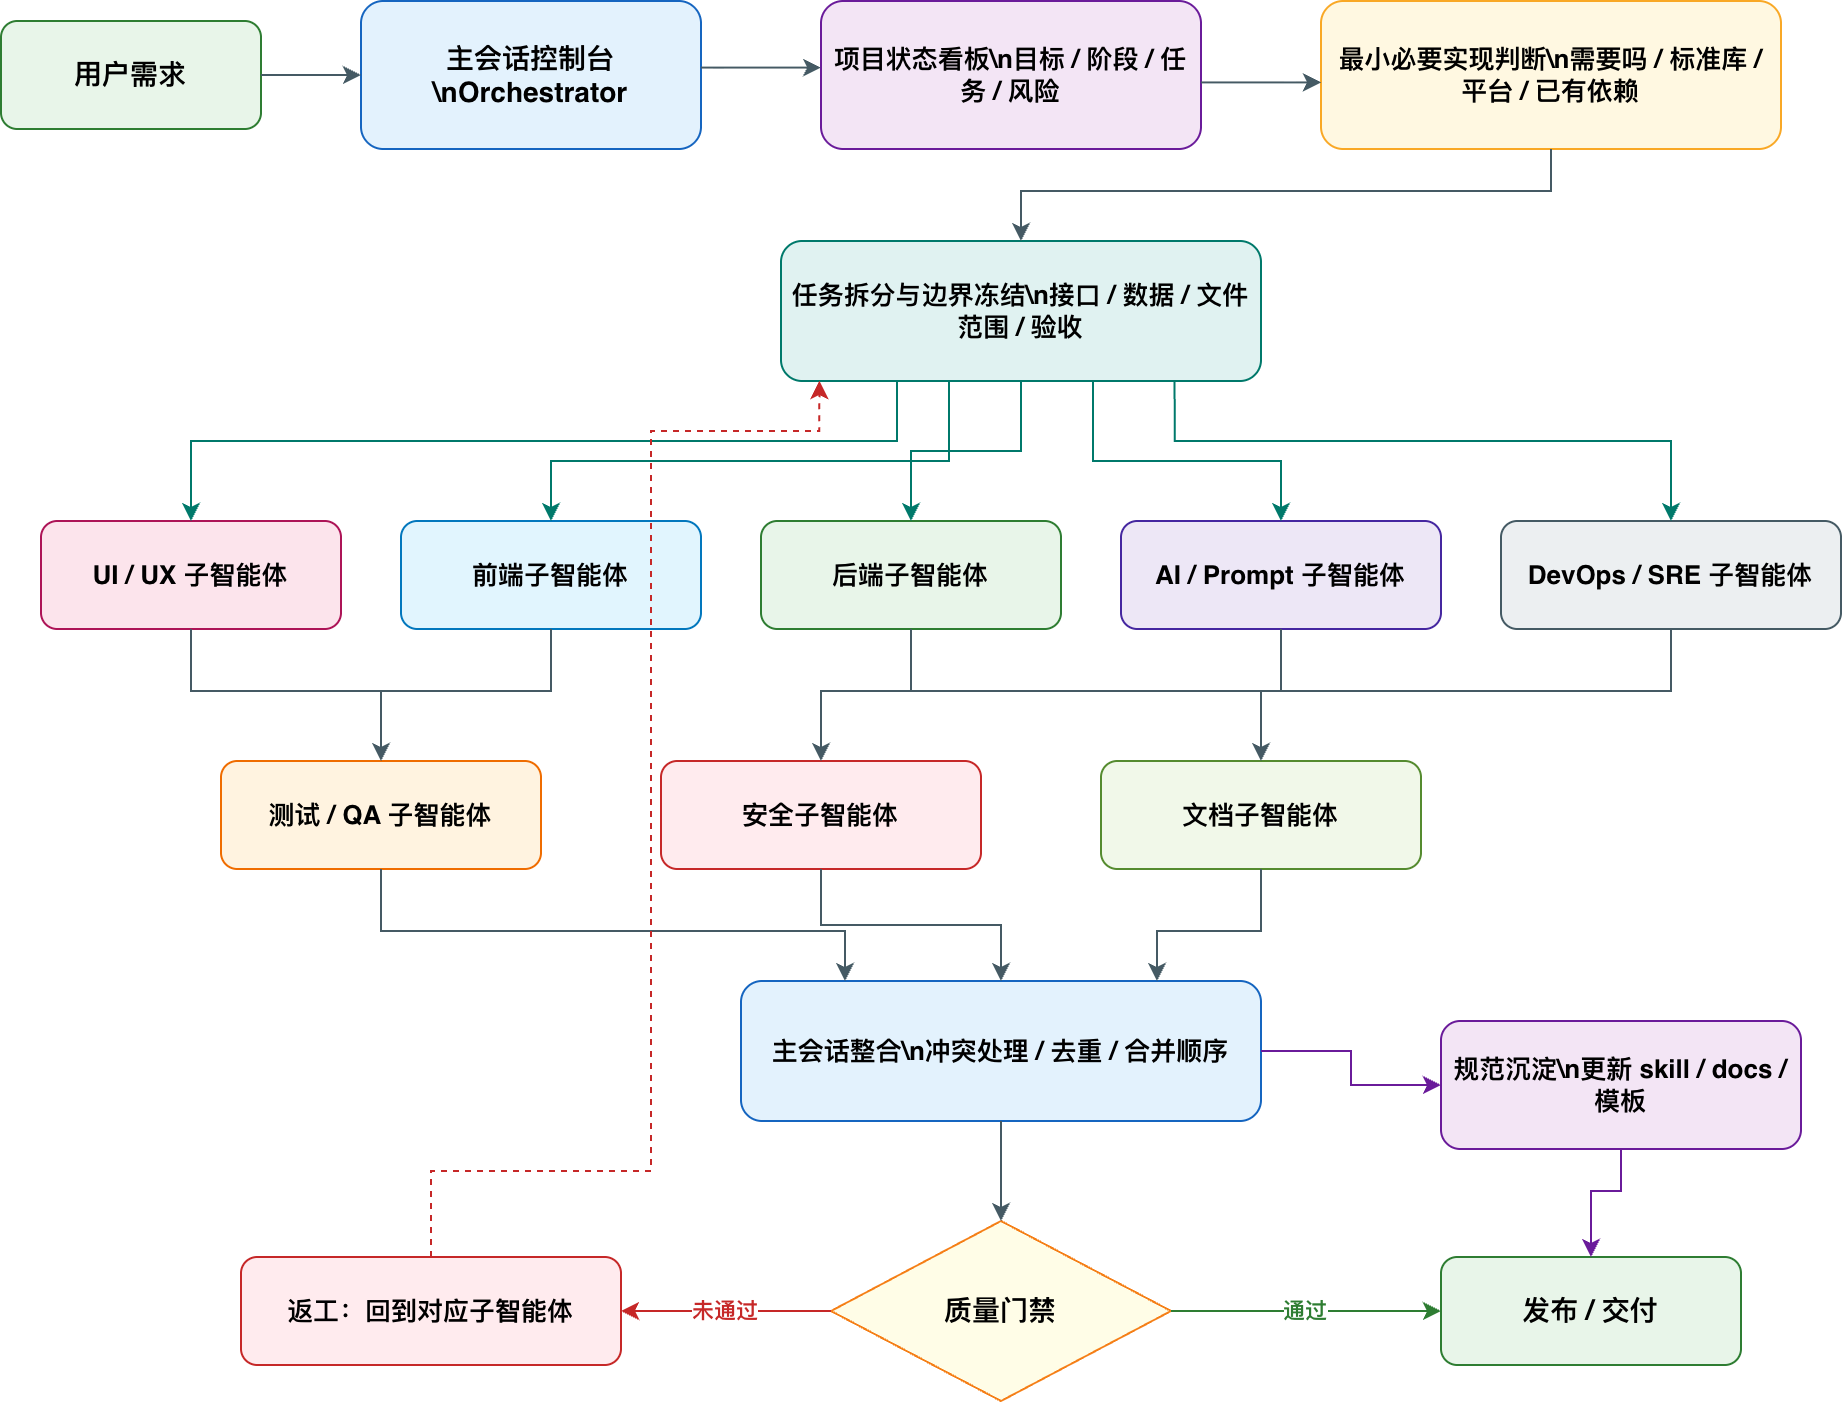
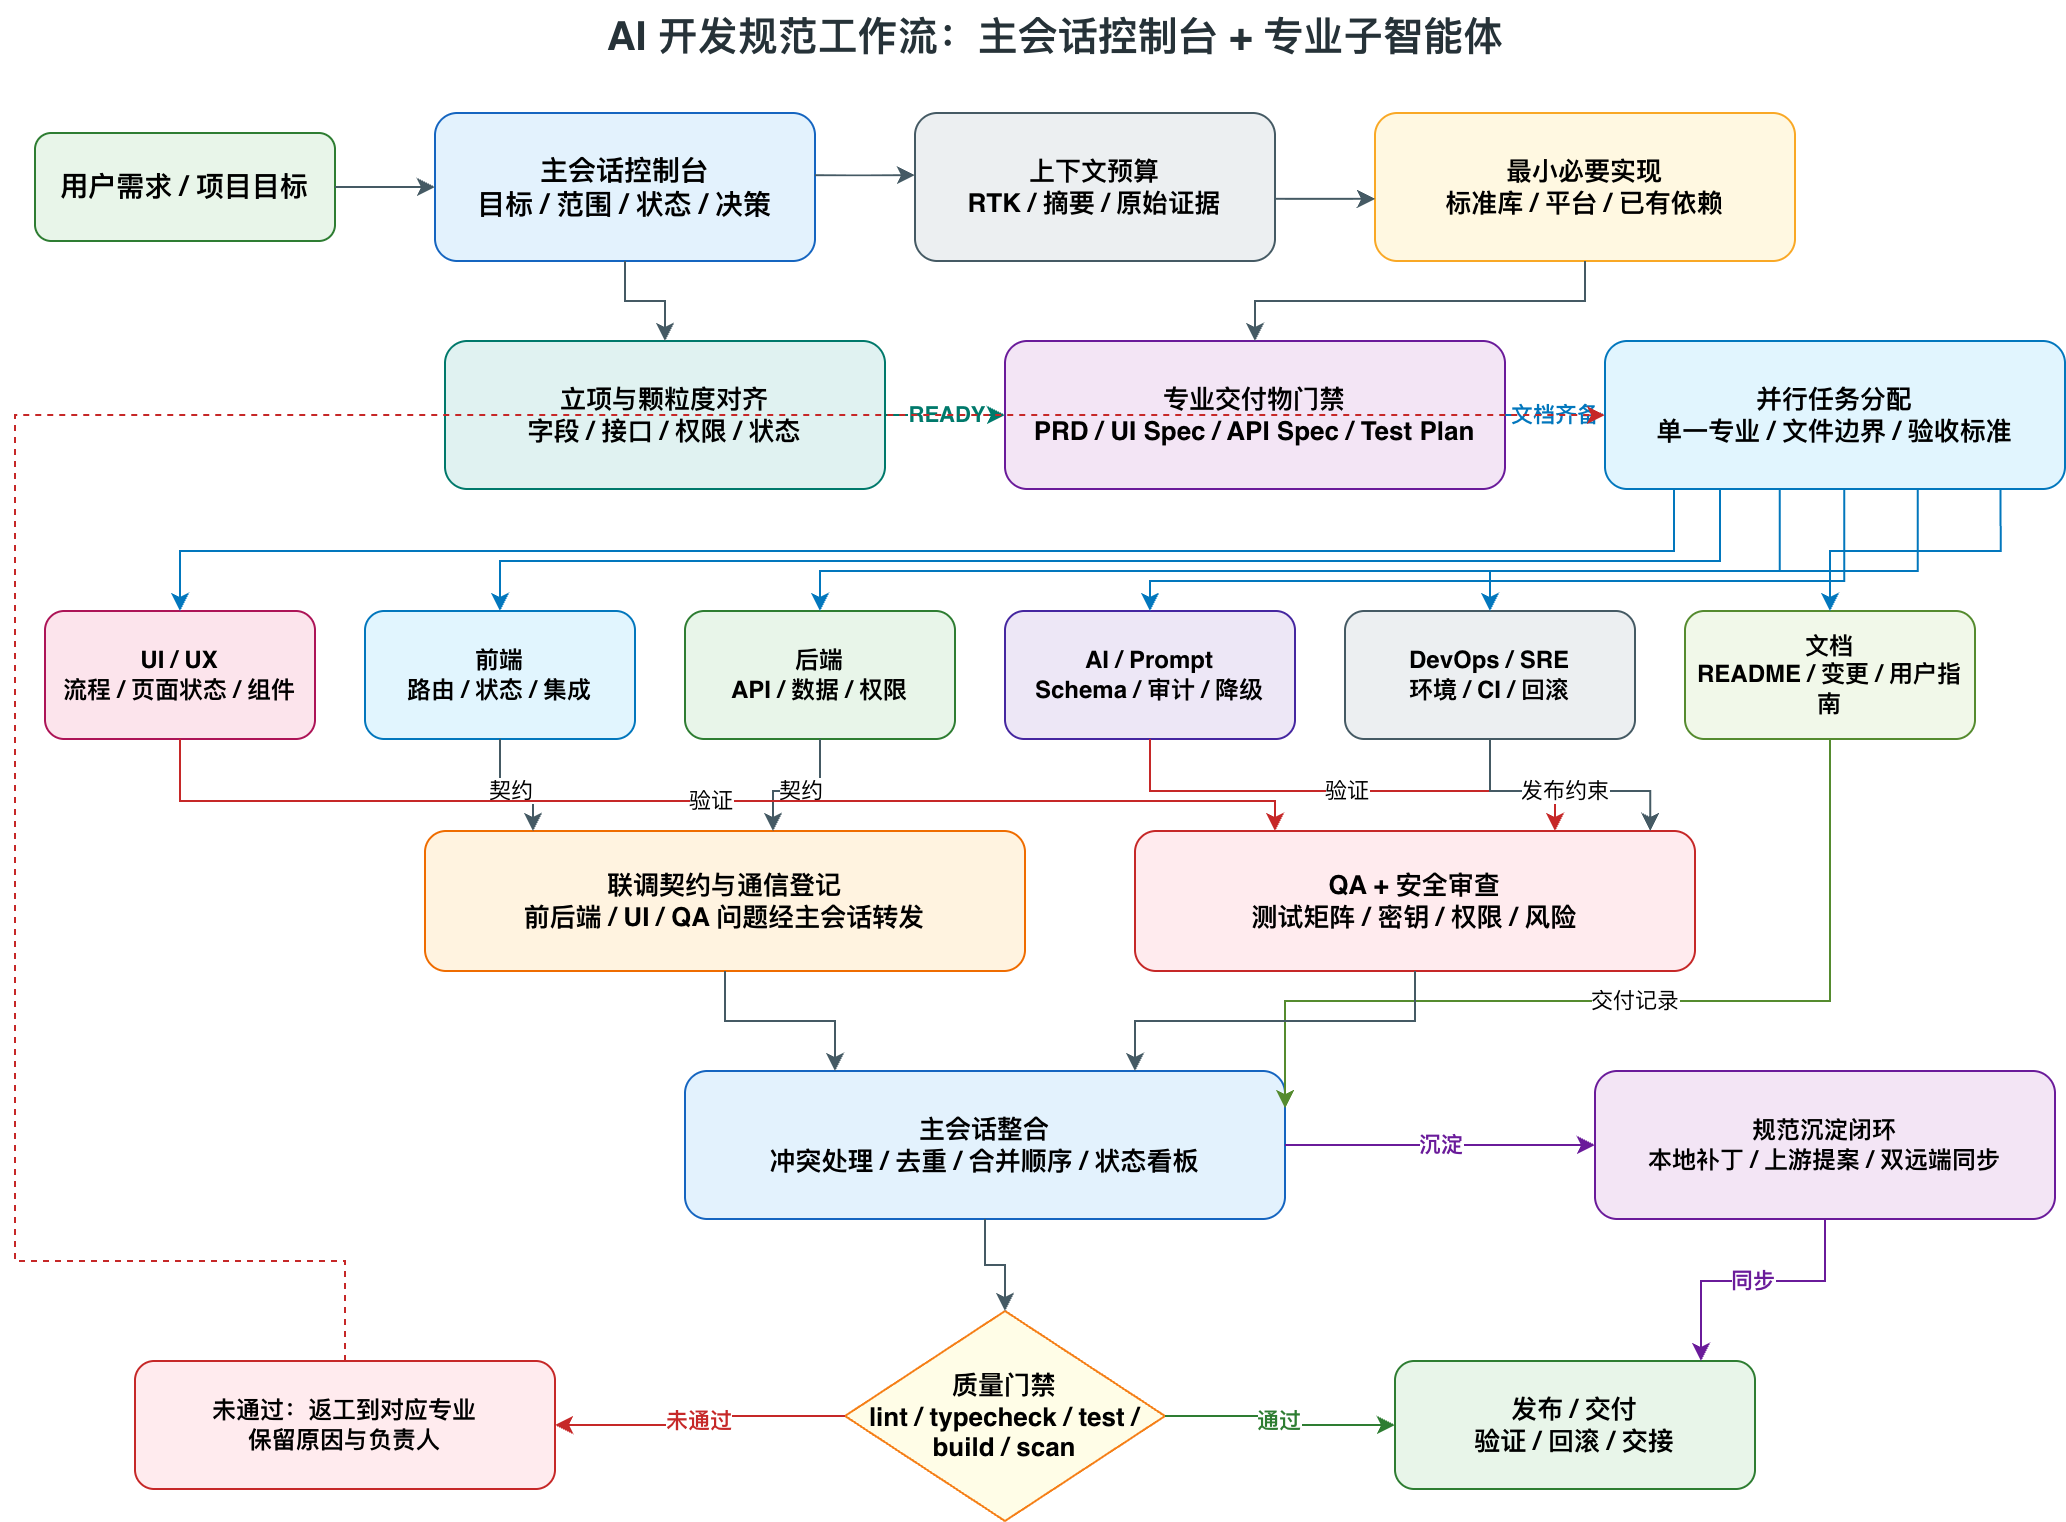
docs: 优化项目工作流图

diff --git a/README.md b/README.md
@@ -72,6 +72,13 @@ docs/agents/SPECIALIST_DELIVERABLES.md
 docs/agents/PROJECT_STATUS_BOARD.md
 ```
 
+工作流图：
+
+```text
+docs/diagrams/project-workflow.png
+docs/diagrams/project-workflow.drawio
+```
+
 默认工作流：
 
 ```text